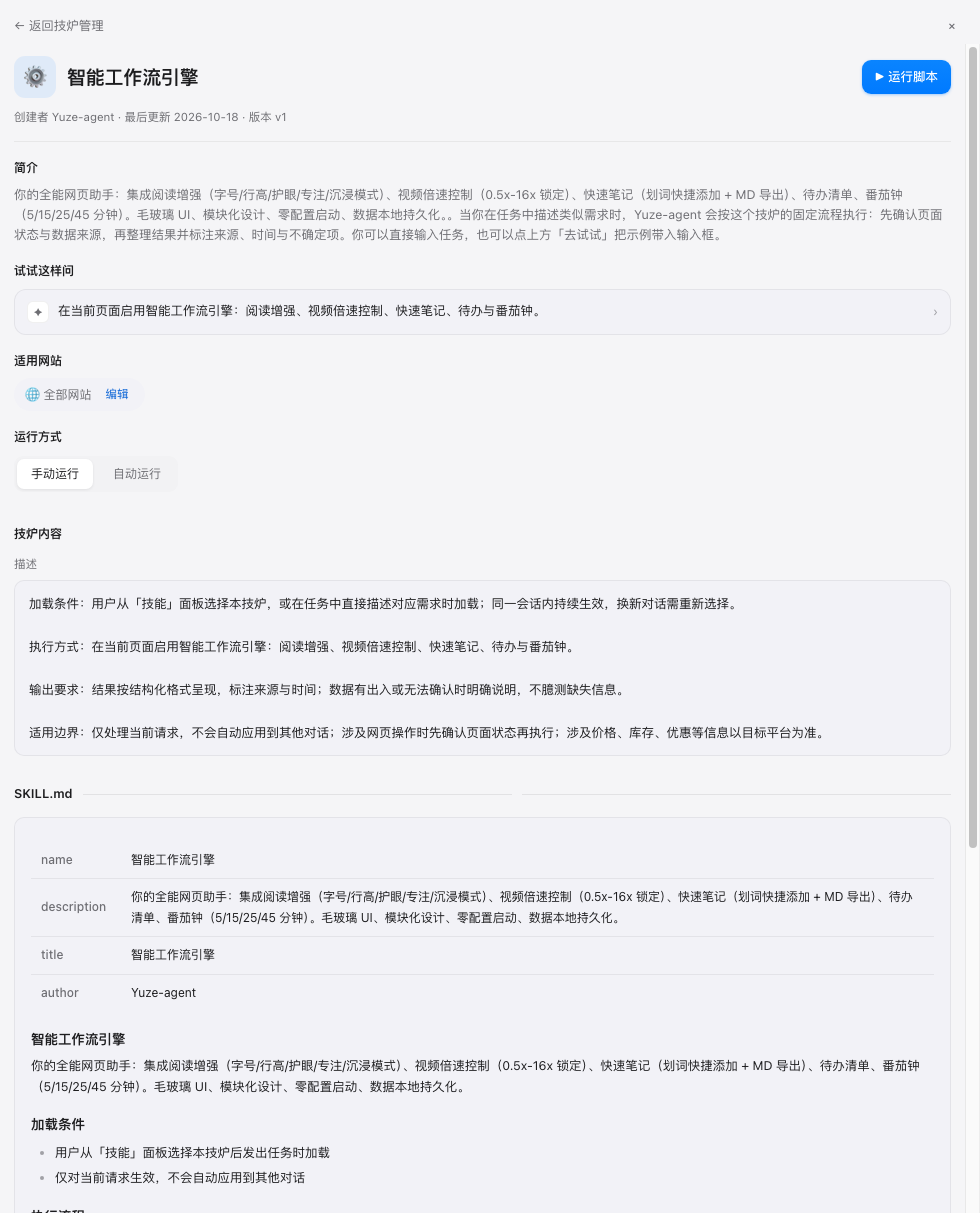
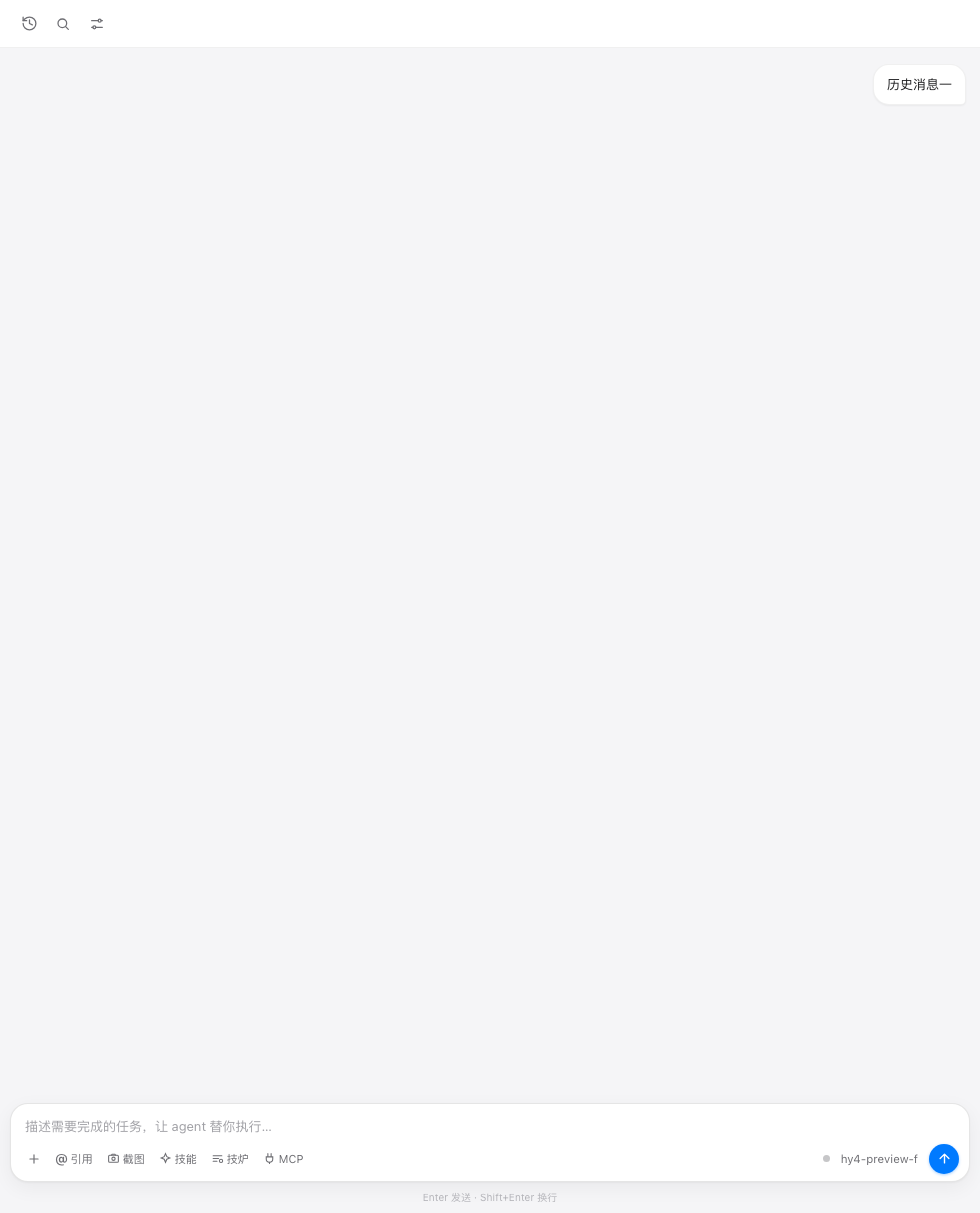
fix: save_js 统一走文件卡片；下载后校验状态，被 Chrome 拦截的卡片标红并可点击重试

diff --git a/extension/sidepanel.js b/extension/sidepanel.js
@@ -623,9 +623,14 @@ async function toolSaveJs({ filename, code }) {
   const safe = raw.replace(/[\\/:*?"<>|]/g, '_');
   const name = /\.js$/i.test(safe) ? safe : safe + '.js';
   const text = String(code || '');
-  const url = 'data:text/javascript;charset=utf-8,' + encodeURIComponent(text);
-  await chrome.downloads.download({ url, filename: name });
-  return '已生成并下载 ' + name + '（' + text.length + ' 字符）';
+  // 转 base64（中文安全），走统一的文件卡片与下载链路
+  const b64 = btoa(unescape(encodeURIComponent(text)));
+  try {
+    await addFileCard({ name, mime: 'text/javascript', size: text.length, b64 });
+    return '已生成并下载 ' + name + '（' + text.length + ' 字符）';
+  } catch (e) {
+    return '已生成 ' + name + '（' + text.length + ' 字符），但下载被浏览器拦截：' + (e?.message || e) + '。可在「生成的文件」卡片里点下载重试。';
+  }
 }
 
 async function runTool(name, args) {
@@ -1186,9 +1191,21 @@ async function addFileCard(f) {
   });
   fileCache.set(downloadId, url);
 
+  // 检查是否被 Chrome 拦截（多文件自动下载保护会返回 id 但 state=interrupted）
+  let failed = false;
+  let failReason = '';
+  try {
+    await new Promise((r) => setTimeout(r, 700));
+    const [d] = await chrome.downloads.search({ id: downloadId });
+    if (!d || d.state === 'interrupted') {
+      failed = true;
+      failReason = (d && d.error) || '被浏览器拦截';
+    }
+  } catch (_) {}
+
   messages.push({
     role: 'file',
-    file: { name: f.name, mime: f.mime, size: f.size, downloadId }
+    file: { name: f.name, mime: f.mime, size: f.size, downloadId, failed, failReason }
   });
   render();
   persist();
@@ -1244,14 +1261,29 @@ function fgItem(file) {
   nm.title = file.name;
   const sub = document.createElement('div');
   sub.className = 'fg-sub';
-  sub.textContent = fileGlyph(file.name) + ' · ' + humanSize(file.size);
+  sub.textContent = file.failed ? '下载失败，点击右侧重试' : fileGlyph(file.name) + ' · ' + humanSize(file.size);
+  if (file.failed) sub.style.color = '#d92b1f';
   meta.append(nm, sub);
   const dl = document.createElement('button');
   dl.type = 'button';
   dl.className = 'fg-dl';
   dl.title = '打开下载文件';
   dl.innerHTML = '<svg width="14" height="14" viewBox="0 0 24 24" fill="none" stroke="currentColor" stroke-width="1.9" stroke-linecap="round" stroke-linejoin="round"><path d="M12 4v11"/><path d="M7 11l5 5 5-5"/><path d="M5 20h14"/></svg>';
-  dl.onclick = (e) => { e.stopPropagation(); openFileFile(file, 'open'); };
+  dl.onclick = (e) => {
+    e.stopPropagation();
+    if (file.failed) {
+      const u = fileCache.get(file.downloadId);
+      if (u) {
+        chrome.downloads.download({ url: u, filename: file.name, saveAs: false, conflictAction: 'uniquify' })
+          .then(() => { setStatus('已重新下载：' + file.name); setTimeout(() => setStatus(''), 2500); })
+          .catch((err) => { setStatus('下载失败：' + ((err && err.message) || err)); setTimeout(() => setStatus(''), 3500); });
+      } else {
+        setStatus('这不是本次运行生成的文件，请让 agent 重新生成');
+      }
+      return;
+    }
+    openFileFile(file, 'open');
+  };
   el.append(ic, meta, dl);
   return el;
 }
